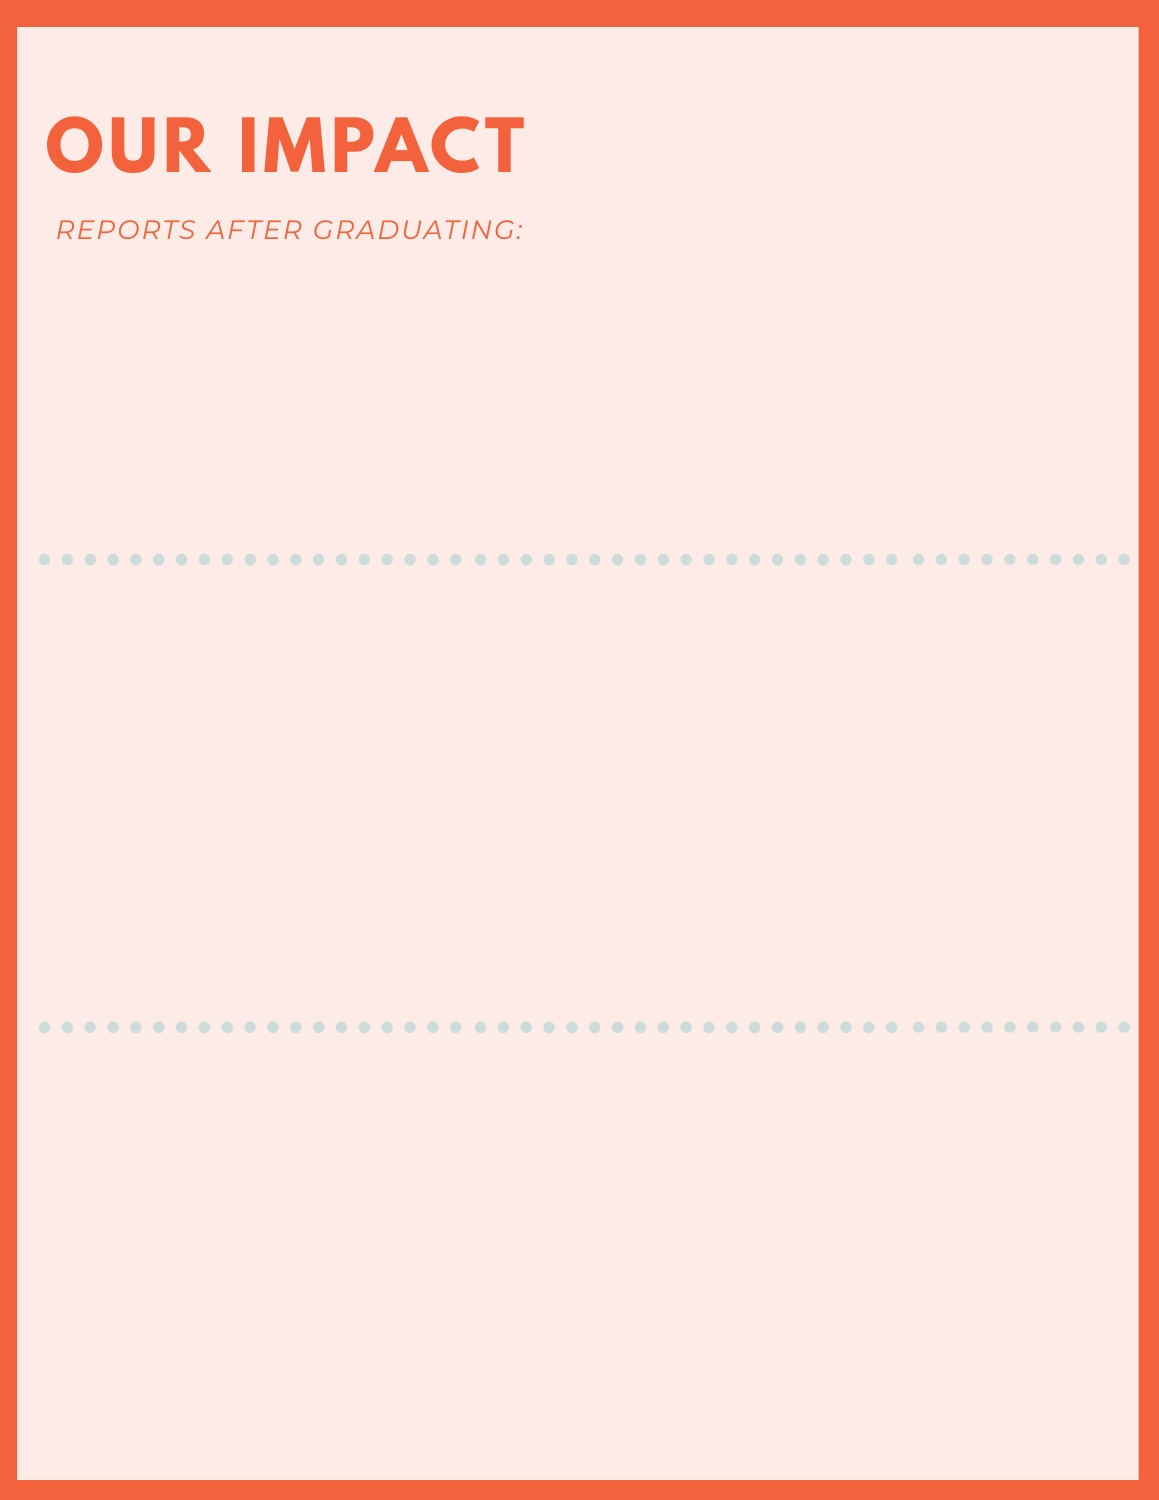
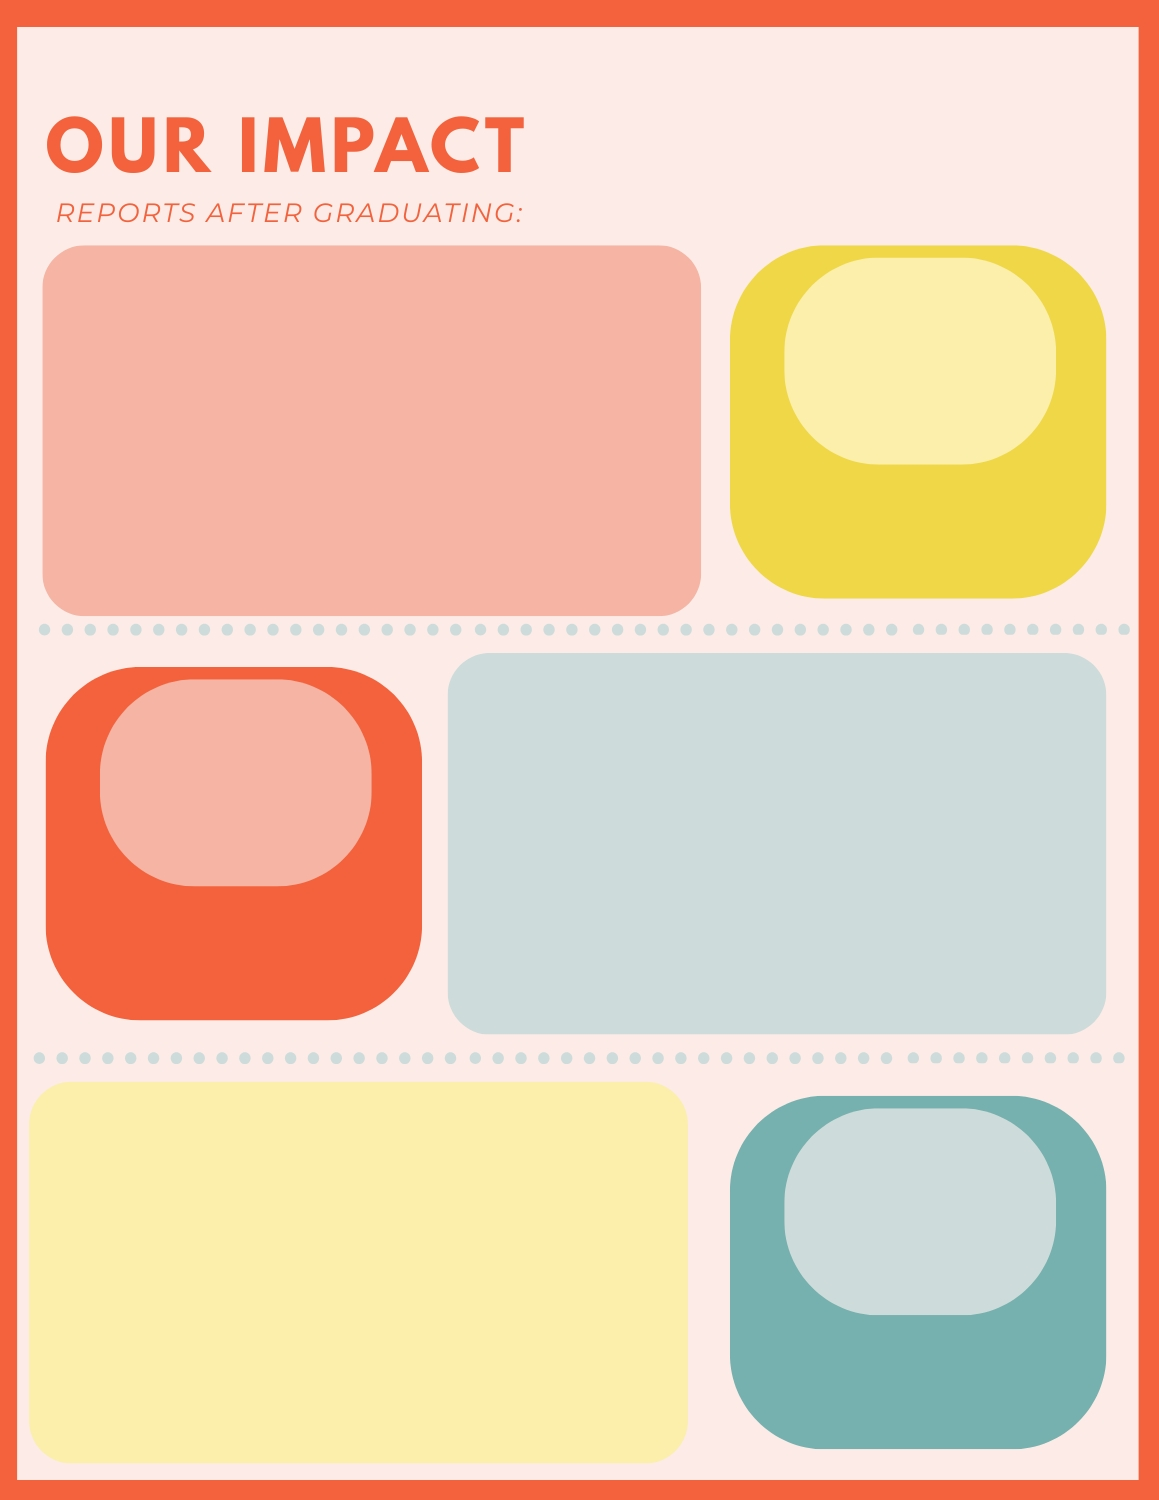
graduate page

diff --git a/static/css/report.css b/static/css/report.css
@@ -293,3 +293,101 @@ body {
     left: 390px;
     width: 350px;
 }
+
+/* ================= PAGE 10 ================= */
+
+.plot-housing {
+    position: absolute;
+    top: 300px;
+    left: 65px;
+    width: 350px;
+}
+
+.plot-employment {
+    position: absolute;
+    top: 300px;
+    left: 420px;
+    width: 350px;
+}
+
+.plot-doing {
+    position: absolute;
+    top: 700px;
+    left: 240px;
+    width: 350px;
+}
+
+.stat-sob {
+    position: absolute;
+    top: 410px;
+    left: 105px;
+    width: 150px;
+
+    font-family: 'League Spartan';
+    font-size: 60pt;
+    font-weight: 700;
+    text-align: center;
+    color: #f0d747;
+}
+
+.stat-sup {
+    position: absolute;
+    top: 410px;
+    left: 530px;
+    width: 150px;
+
+    font-family: 'League Spartan';
+    font-size: 60pt;
+    font-weight: 700;
+    text-align: center;
+    color: #f3623d;
+}
+
+.stat-con {
+    position: absolute;
+    top: 410px;
+    left: 955px;
+    width: 150px;
+
+    font-family: 'League Spartan';
+    font-size: 60pt;
+    font-weight: 700;
+    text-align: center;
+    color: #76b0af;
+}
+
+.caption-sob {
+    position: absolute;
+    top: 600px;
+    left: 60px;
+    width: 260px;
+
+    font-family: 'Montserrat';
+    font-size: 23pt;
+    text-align: center;
+    color: #f0d747;
+}
+
+.caption-sup {
+    position: absolute;
+    top: 600px;
+    left: 485px;
+    width: 260px;
+
+    font-family: 'Montserrat';
+    font-size: 23pt;
+    text-align: center;
+    color: #f3623d;
+}
+
+.caption-con {
+    position: absolute;
+    top: 600px;
+    left: 910px;
+    width: 260px;
+
+    font-family: 'Montserrat';
+    font-size: 23pt;
+    text-align: center;
+    color: #76b0af;
+}

diff --git a/templates/report_template.html b/templates/report_template.html
@@ -113,9 +113,33 @@
     </div>
 </div>
 
+<!-- ===================== PAGE 10 — GRADUATE OUTCOMES ===================== -->
+<div class="page">
+    <img class="bg" src="static/backgrounds/10.jpg"></div>
 
-<!-- ===================== PAGES 10–12 AS STATIC PAGES ===================== -->
-<div class="page"><img class="bg" src="static/backgrounds/10.jpg"></div>
+    <img class="plot plot-housing" src="{{ housing }}">
+    <img class="plot plot-employment" src="{{ employment }}">
+    <img class="plot plot-doing" src="{{ doing }}">
+
+    <div class="stat stat-sob">{{ sob }}%</div>
+    <div class="stat stat-sup">{{ sup }}%</div>
+    <div class="stat stat-con">{{ con }}%</div>
+
+    <div class="caption caption-sob">
+        of program graduates report to be maintaining
+        their sobriety since leaving the program
+    </div>
+    <div class="caption caption-sup">
+        of program graduates report to have a healthy
+        support system in place since leaving the program
+    </div>
+    <div class="caption caption-con">
+        of program graduates choose to stay connected with
+        the Magdalene House since leaving the program
+    </div>
+</div>
+
+<!-- ===================== PAGES 11–12 AS STATIC PAGES ===================== -->
 <div class="page"><img class="bg" src="static/backgrounds/11.jpg"></div>
 <div class="page"><img class="bg" src="static/backgrounds/12.jpg"></div>
 

diff --git a/app.py b/app.py
@@ -11,7 +11,7 @@ app = Flask(__name__)
 def index():
     return render_template("index.html")
 
-def plot(series, column_index, title, color, filename):
+def plot_yag(series, column_index, title, color, filename):
     os.makedirs("static/plots", exist_ok=True)
     counts = (series.iloc[:, column_index]
                     .dropna()
@@ -48,12 +48,38 @@ def plot(series, column_index, title, color, filename):
 
     return save_path
 
-def get_stats(df, col):
+def stats_yag(df, col):
     return int(round(df.iloc[:,col][df.iloc[:,col] > 3].count()/df.iloc[:,col].dropna().count(), 2) * 100)
 
-# def output_pdf(plot_paths, stats):
-#     # Placeholder for PDF generation logic
-#     pass
+def plot_imp(data, column, title, color, filename):
+    os.makedirs("static/plots", exist_ok=True)
+    counts = data.iloc[:,column].value_counts(normalize=True) * 100
+
+    plt.figure(figsize=(6, 4))
+    ax = sns.barplot(x=counts.values, y=counts.index, color=color)
+    plt.ylabel(None)
+    plt.title(title)
+    plt.xlim(0, 100)
+    plt.xticks(rotation=45)
+    plt.box(False)
+    ax.xaxis.set_visible(False)
+
+    for bar, pct in zip(ax.patches, counts.values):
+        if pct > 0:
+            ax.text(
+                bar.get_width() + .2,
+                bar.get_y() + bar.get_height() / 2,
+                f'{pct:.0f}%',
+                va='center'
+            )
+
+    save_path = f"static/plots/{filename}.jpg"
+    plt.savefig(save_path, dpi=100, bbox_inches='tight')
+    plt.close()
+    return save_path
+
+def stats_imp(df, col):
+    return int(round(((df.iloc[:,col][df.iloc[:,col] == "Yes"].count() / len(df)) * 100), 2))
 
 @app.route('/run', methods=['POST'])
 def run():
@@ -61,6 +87,7 @@ def run():
     workbook = request.files.get('workbook')
     try:
         df = pd.read_excel(workbook, sheet_name='Raw Self Assessment', engine='openpyxl')
+        grad = pd.read_excel(workbook, sheet_name='Graduate Responses', engine='openpyxl')
     except Exception as e:
         print("Error reading Excel file:", e)
         return "There was an error processing the uploaded file. Please ensure it's a valid Excel workbook (.xlsx) with the correct sheet name 'Raw Self Assessment'."
@@ -90,14 +117,17 @@ def run():
 
     try:
         plot_paths = {
-            "connected": plot(social, 0, 'Feeling connected to others', yellow, "connected_plot"),
-            "participation": plot(social, 2, 'Actively participating in group activities and discussions', yellow, "participation_plot"),
-            "finance": plot(finance, 1, 'Has secured or actively working towards securing employment', coral, "finance_plot"),
-            "schedule": plot(auto, 0, 'Creates and follows daily schedule to meet responsibilites', coral, "schedule_plot"),
-            "guidance": plot(trauma, 2, 'Seeking guidance when facing challenges', teal, "guidance_plot"),
-            "coping": plot(trauma, 3, 'Using and incorporating coping strategies', teal, "coping_plot"),
-            "progress": plot(engagement, 0, 'Feeling significant progress', yellow, "progress_plot"),
-            "support": plot(engagement, 1, 'Feeling supported by program and staff', yellow, "support_plot")
+            "connected": plot_yag(social, 0, 'Feeling connected to others', yellow, "connected_plot"),
+            "participation": plot_yag(social, 2, 'Actively participating in group activities and discussions', yellow, "participation_plot"),
+            "finance": plot_yag(finance, 1, 'Has secured or actively working towards securing employment', coral, "finance_plot"),
+            "schedule": plot_yag(auto, 0, 'Creates and follows daily schedule to meet responsibilites', coral, "schedule_plot"),
+            "guidance": plot_yag(trauma, 2, 'Seeking guidance when facing challenges', teal, "guidance_plot"),
+            "coping": plot_yag(trauma, 3, 'Using and incorporating coping strategies', teal, "coping_plot"),
+            "progress": plot_yag(engagement, 0, 'Feeling significant progress', yellow, "progress_plot"),
+            "support": plot_yag(engagement, 1, 'Feeling supported by program and staff', yellow, "support_plot"),
+            "housing": plot_imp(grad, 5, 'Current Housing Situation of Graduates', coral, "housing_plot"),
+            "employment": plot_imp(grad, 6, 'Employment Status of Graduates', teal, "employment_plot"),
+            "doing": plot_imp(grad, 11, 'How Graduates Report to be Doing', yellow, "doing_plot")
         }
     
     except Exception as e:
@@ -105,12 +135,16 @@ def run():
         return "There was an error generating the plots. Please ensure the data is structured correctly and try again."
 
     try:
-        stats = {'s1': get_stats(social, 1), 
-                'f1': get_stats(finance, 0), 
-                'f2': get_stats(finance, 3), 
-                't1': get_stats(trauma, 0), 
-                't2': get_stats(trauma, 4), 
-                'e1': get_stats(engagement, 5)}
+        stats = {'s1': stats_yag(social, 1), 
+                'f1': stats_yag(finance, 0), 
+                'f2': stats_yag(finance, 3), 
+                't1': stats_yag(trauma, 0), 
+                't2': stats_yag(trauma, 4), 
+                'e1': stats_yag(engagement, 5),
+                'sob': stats_imp(grad, 8),
+                'sup': stats_imp(grad, 10),
+                'con': stats_imp(grad, 13)
+                }
         
     except Exception as e:
         print("Error calculating statistics:", e)
@@ -135,6 +169,13 @@ def run():
             t1=stats["t1"],
             t2=stats["t2"],
             e1=stats["e1"],
+            housing=plot_paths["housing"],
+            employment=plot_paths["employment"],
+            doing=plot_paths["doing"],
+            sob=stats["sob"],
+            sup=stats["sup"],
+            con=stats["con"]
+
         )
 
         
